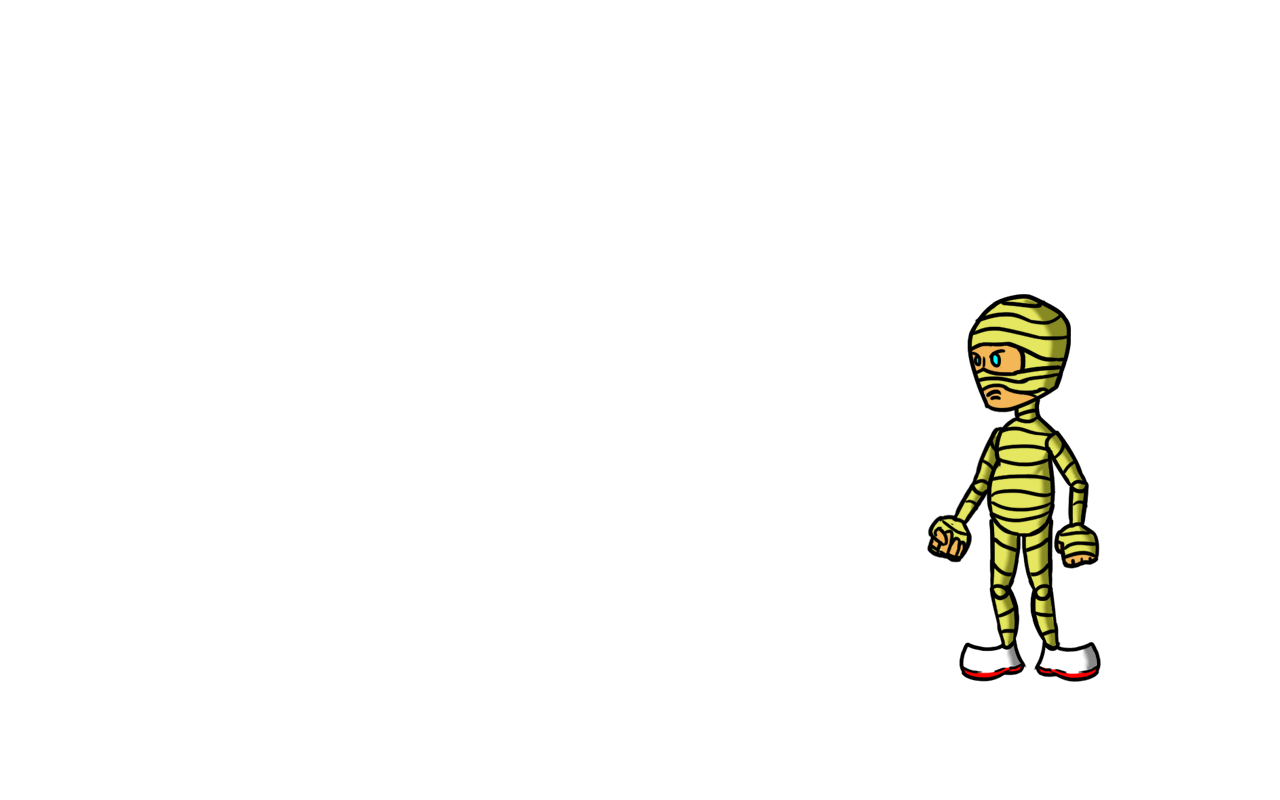
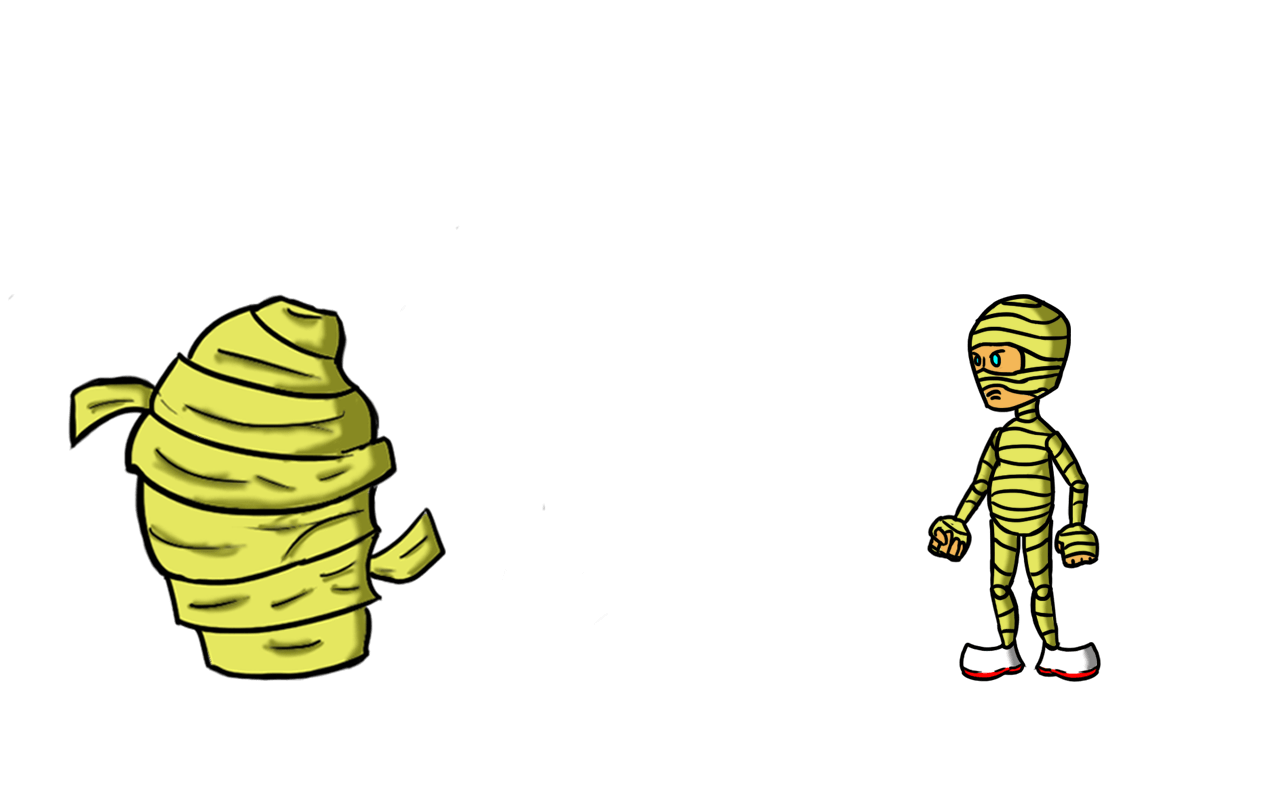
Se agregaron dos des las animaciones de Geronimo en código. Se cambio el font de Geronimo. Se arreglo el orden de las imagenes de Mummify Mortify.

Changed region(s): [[0.0312, 0.375, 0.3438, 0.875]]

diff --git a/app/src/main/java/mx/itesm/spookybattle/EscenaBatalla.java b/app/src/main/java/mx/itesm/spookybattle/EscenaBatalla.java
@@ -188,7 +188,7 @@ public class EscenaBatalla extends EscenaBase
         fontCurt = FontFactory.createFromAsset(actividadJuego.getFontManager(), actividadJuego.getTextureManager(), 1024, 1024, actividadJuego.getAssets(),
                 "spookyfont.ttf", 50, true, Color.parseColor("#FF00FF"));
         fontGeronimo = FontFactory.createFromAsset(actividadJuego.getFontManager(), actividadJuego.getTextureManager(), 1024, 1024, actividadJuego.getAssets(),
-                "spookyfont.ttf", 50, true, Color.YELLOW);
+                "spookyfont.ttf", 50, true, Color.parseColor("#FFFF4D"));
 
         fontHP  = FontFactory.createFromAsset(actividadJuego.getFontManager(), actividadJuego.getTextureManager(), 1024, 1024, actividadJuego.getAssets(),
                 "numbers.ttf", 50, true, Color.RED);
@@ -549,14 +549,14 @@ public class EscenaBatalla extends EscenaBase
                 break;
 
             case 2:
-                for (int i = 0; i < 7; i++) {
-                    ITextureRegion imagen = cargarImagen("AnimacionesCurtis/Night/Night0" + (i + 1) + ".png");
+                for (int i = 0; i < 10; i++) {
+                    ITextureRegion imagen = cargarImagen("AnimacionesGeronimo/Momify/Momify0" + (i) + ".png");
                     arrayImagenesGeronimo.add(i, imagen);
                 }
                 break;
             case 3:
-                for (int i = 0; i < 7; i++) {
-                    ITextureRegion imagen = cargarImagen("AnimacionesCurtis/Choke/VampChoke0" + (i + 1) + ".png");
+                for (int i = 0; i < 8; i++) {
+                    ITextureRegion imagen = cargarImagen("AnimacionesGeronimo/Anubis/Anubis" + (i + 1) + ".png");
                     arrayImagenesGeronimo.add(i, imagen);
                 }
                 break;
@@ -578,7 +578,7 @@ public class EscenaBatalla extends EscenaBase
         }
     }
 
-    private void animacionLotus(){
+    private void animacionLotusAI(){
 
         registerUpdateHandler(new TimerHandler(0.3f, new ITimerCallback() {
             @Override
@@ -595,7 +595,7 @@ public class EscenaBatalla extends EscenaBase
                     tagSpriteChild = spriteFrameGeronimo;
 
                     numImagenesGeronimo++;
-                    animacionLotus();
+                    animacionLotusAI();
                 } else {
 
                     for (int i = 0; i < 10; i++) {
@@ -621,6 +621,94 @@ public class EscenaBatalla extends EscenaBase
             }
         }));
     }
+
+    private void animacionMomifyAI(){
+
+        registerUpdateHandler(new TimerHandler(0.3f, new ITimerCallback() {
+            @Override
+            public void onTimePassed(TimerHandler pTimerHandler) {
+                if (numImagenesGeronimo < 10) {
+                    spriteGeronimoAnimado.setAlpha(0);
+
+                    if (tagSpriteChild != null)
+                        detachChild(tagSpriteChild);
+
+                    spriteFrameGeronimo = cargarSprite(ControlJuego.ANCHO_CAMARA / 2, ControlJuego.ALTO_CAMARA / 2, arrayImagenesGeronimo.get(numImagenesGeronimo));
+                    attachChild(spriteFrameGeronimo);
+                    tagSpriteChild = spriteFrameGeronimo;
+
+                    numImagenesGeronimo++;
+                    animacionMomifyAI();
+                } else {
+
+                    for (int i = 0; i < 10; i++) {
+
+                        arrayImagenesGeronimo.get(i).getTexture().unload();
+                    }
+                    arrayImagenesGeronimo.clear();
+                    reset();
+
+                    if(aiFirst == true){
+                        playerMove(player, ai, attackChoice);
+                        crearEscena();
+                        hideButtons();
+                    }
+                    else {
+                        crearEscena();
+                        s="Choose an action";
+                    }
+                    numImagenesGeronimo = 0;
+                }
+
+
+            }
+        }));
+    }
+
+    private void animacionAnubisAI(){
+
+        registerUpdateHandler(new TimerHandler(0.3f, new ITimerCallback() {
+            @Override
+            public void onTimePassed(TimerHandler pTimerHandler) {
+                if (numImagenesGeronimo < 8) {
+                    spriteGeronimoAnimado.setAlpha(0);
+
+                    if (tagSpriteChild != null)
+                        detachChild(tagSpriteChild);
+
+                    spriteFrameGeronimo = cargarSprite(ControlJuego.ANCHO_CAMARA / 2, ControlJuego.ALTO_CAMARA / 2, arrayImagenesGeronimo.get(numImagenesGeronimo));
+                    attachChild(spriteFrameGeronimo);
+                    tagSpriteChild = spriteFrameGeronimo;
+
+                    numImagenesGeronimo++;
+                    animacionAnubisAI();
+                } else {
+
+                    for (int i = 0; i < 8; i++) {
+                        arrayImagenesGeronimo.get(i).getTexture().unload();
+                    }
+                    arrayImagenesGeronimo.clear();
+                    reset();
+
+                    if(aiFirst == true){
+                        playerMove(player, ai, attackChoice);
+                        crearEscena();
+                        hideButtons();
+                    }
+                    else {
+                        crearEscena();
+                        s="Choose an action";
+                    }
+                    numImagenesGeronimo = 0;
+                }
+
+
+            }
+        }));
+    }
+
+
+    ///ANIMACIONES CURTIS/////
     private void getImagesCurtis(int opcionAtaque)
     {
         arrayImagenes = new ArrayList<>();
@@ -1133,7 +1221,6 @@ public class EscenaBatalla extends EscenaBase
 
             if(ai.getMP() == ai.getbase_MP()) n = 0;
         }
-        n=1;
         switch(n){
             case 0:
                 s= used + "SUPER ATTACK " + ai.getSuperAtk().getName();
@@ -1142,25 +1229,25 @@ public class EscenaBatalla extends EscenaBase
             case 1:
                 s= used + ai.getAtk_list()[0].getName();
                 getImagesGeronimo(1);
-                animacionLotus();
+                animacionLotusAI();
                 dmgToDeal = damageCalc(ai.getAtk_list()[0].getBase_dmg(), player.getDef());
                 break;
             case 2:
                 s= used + ai.getAtk_list()[1].getName();
-                getImagesGeronimo(1);
-                animacionLotus();
+                getImagesGeronimo(2);
+                animacionMomifyAI();
                 dmgToDeal = damageCalc(ai.getAtk_list()[1].getBase_dmg(), player.getDef());
                 break;
             case 3:
                 s= used + ai.getAtk_list()[2].getName();
-                getImagesGeronimo(1);
-                animacionLotus();
+                getImagesGeronimo(3);
+                animacionAnubisAI();
                 dmgToDeal = damageCalc(ai.getAtk_list()[2].getBase_dmg(), player.getDef());
                 break;
             case 4:
                 s= used + ai.getAtk_list()[3].getName();
                 getImagesGeronimo(1);
-                animacionLotus();
+                animacionLotusAI();
                 dmgToDeal = damageCalc(ai.getAtk_list()[3].getBase_dmg(), player.getDef());
                 break;
         }
